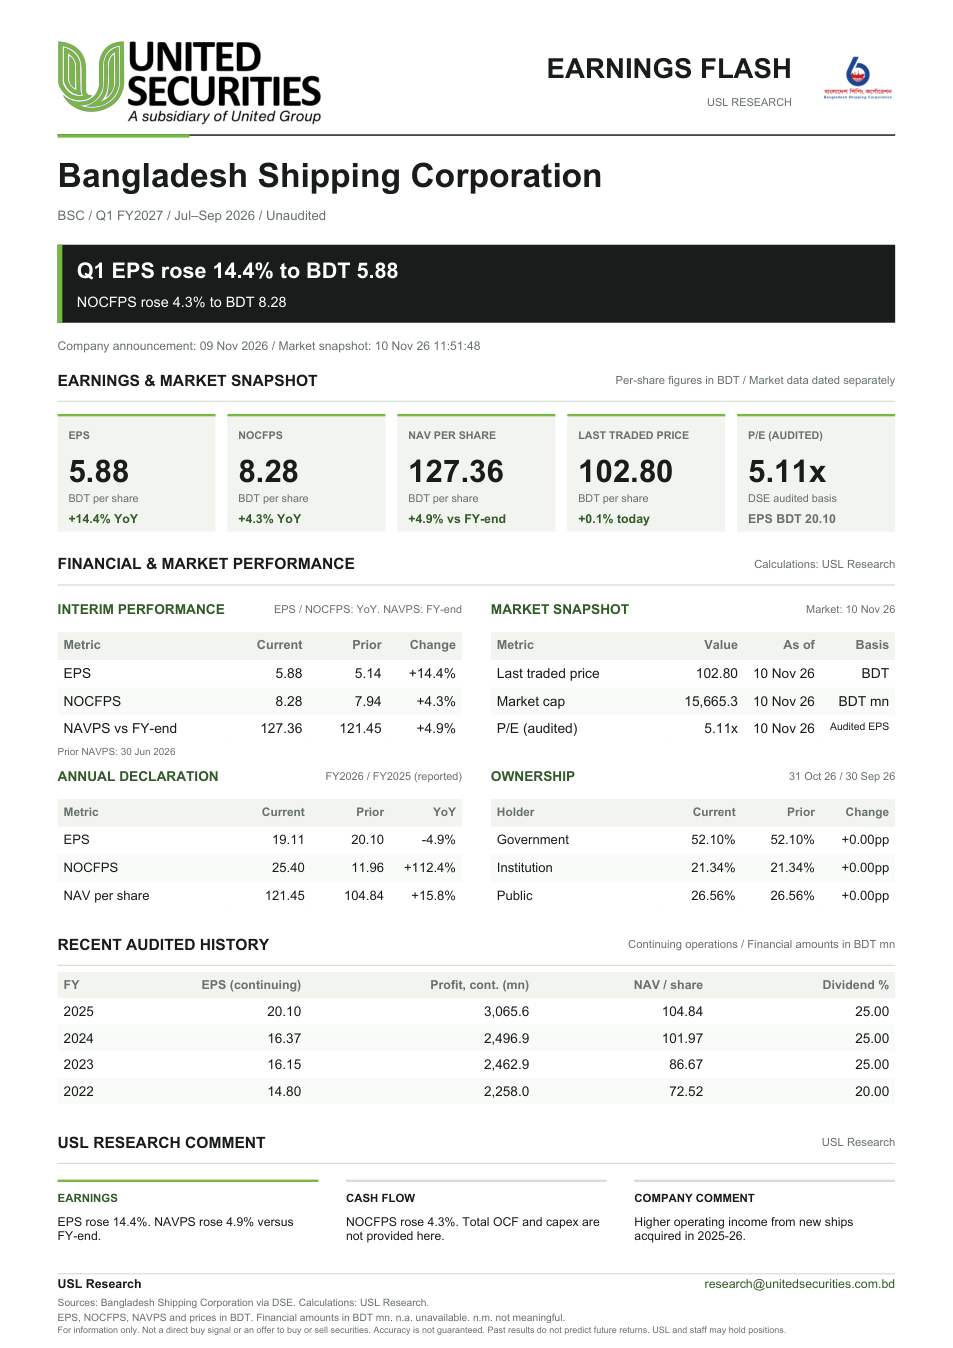
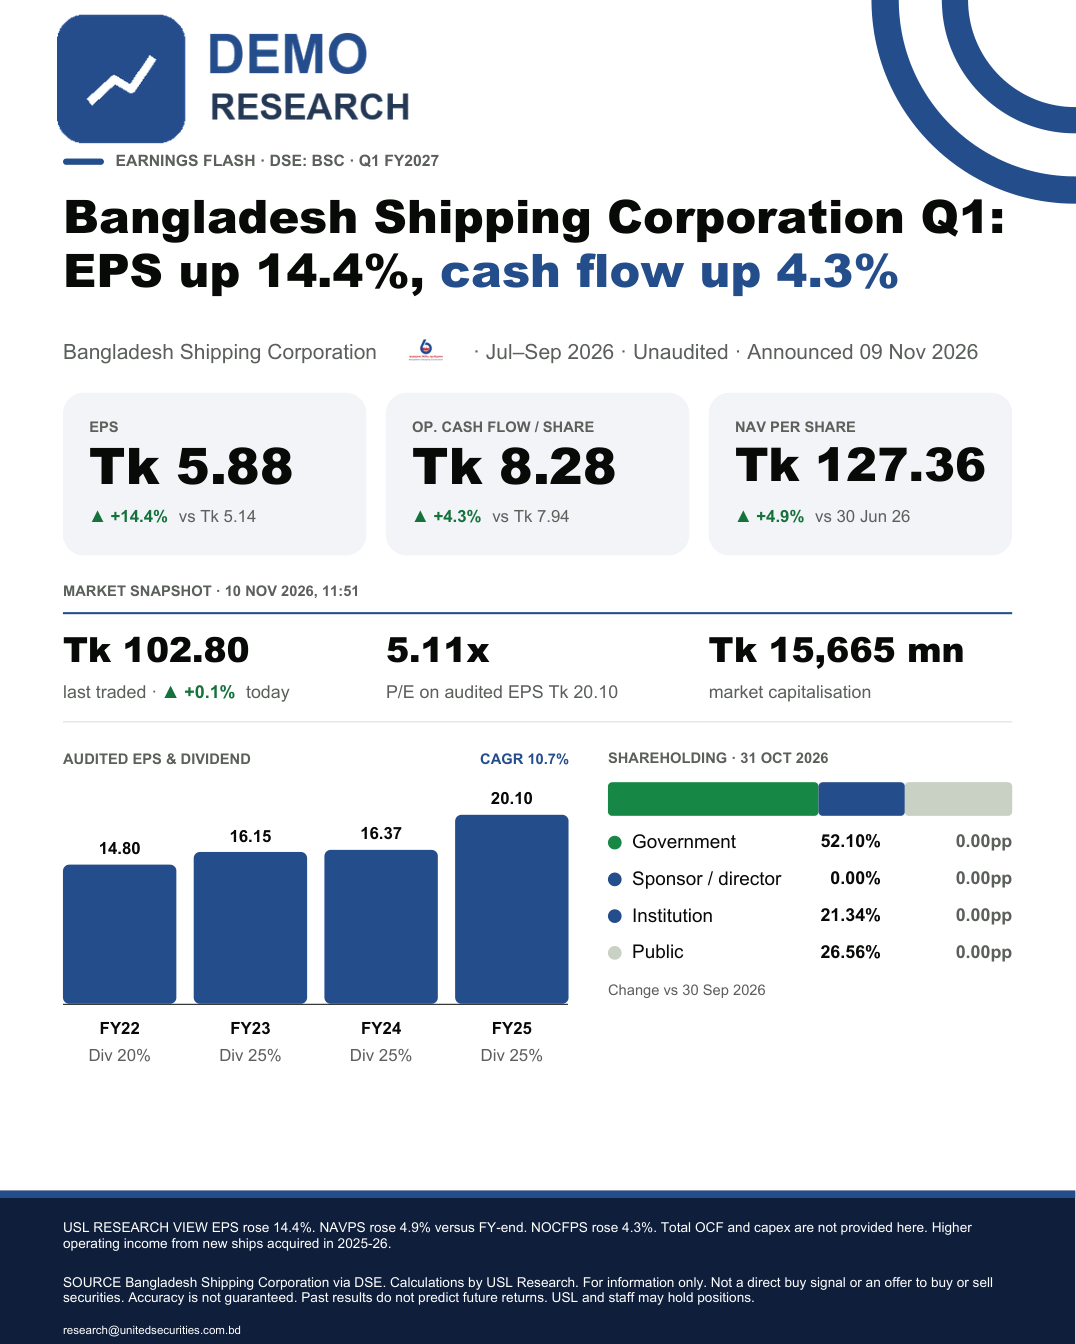
Refresh Earnings Flash portfolio and screenshots
Describe custom branding, report designs and export options. Show the app and its PDF output with a fictional demo logo and dated public BSC data.

diff --git a/index.html b/index.html
@@ -1,7 +1,7 @@
 <!doctype html>
 <html lang="en"><head><meta charset="utf-8"><meta name="viewport" content="width=device-width,initial-scale=1">
 <meta name="referrer" content="no-referrer"><meta http-equiv="Content-Security-Policy" content="default-src 'none'; img-src 'self'; style-src 'unsafe-inline'; base-uri 'none'; form-action 'none'">
-<meta name="description" content="A read-only case study of a Python and Streamlit financial-report automation project.">
+<meta name="description" content="A case study of a Windows app for branded Dhaka Stock Exchange earnings reports and editable PowerPoint and PDF exports.">
 <title>Earnings Flash Generator — Project Case Study</title>
 <style>body{margin:0;background:#f7f9f5;color:#182019;font:17px/1.65 system-ui,sans-serif}main{max-width:1020px;margin:auto;padding:64px 24px}h1{font-size:clamp(36px,6vw,62px);line-height:1.08;letter-spacing:-.04em;margin:12px 0 24px}h2{margin:52px 0 12px;font-size:28px}p{max-width:780px}.label{font-size:13px;letter-spacing:.12em;color:#315b28;text-transform:uppercase;font-weight:700}.stack{color:#52614f;font-size:15px}img{max-width:100%;height:auto;border:1px solid #dce5d5;background:white;margin:14px 0}figure{margin:24px 0}figcaption,footer{font-size:13px;color:#60705c}.report{max-width:740px}ul{padding-left:24px}footer{border-top:1px solid #dce5d5;margin-top:48px;padding-top:20px}</style>
 </head><body><main>
@@ -9,9 +9,9 @@
 <p>A local application that converts Dhaka Stock Exchange company disclosures into consistent, editable PowerPoint and searchable PDF earnings summaries.</p>
 <p class="stack">Python · Streamlit · Requests · XML / JSON · ReportLab · Pillow · C# · Git</p>
 <h2>The problem</h2><p>Preparing an earnings flash requires collecting public disclosures, checking comparable periods and transferring figures into a consistent report. Manual copying makes the process repetitive and can mix quarterly and cumulative results.</p>
-<h2>What I built</h2><ul><li>DSE ticker lookup and structured financial-disclosure parsing.</li><li>Explicit period and unit checks, with missing figures kept distinct from zero.</li><li>Automatic issuer-logo lookup with an optional saved replacement.</li><li>Rule-based earnings commentary drawn from matching public disclosures, with editable wording.</li><li>Editable PowerPoint and searchable PDF exports using one approved report layout.</li><li>A Windows launcher and a regression suite with 46 checks.</li></ul>
-<h2>Application preview</h2><figure><img src="app-preview.png" alt="Local earnings-report application showing ticker lookup and a report preview"><figcaption>Screenshot of the local application using public BSC disclosures. Market figures are dated demonstration data.</figcaption></figure>
-<h2>Report preview</h2><figure class="report"><img src="earnings-flash.png" alt="One-page earnings report with financial comparisons and research commentary"><figcaption>Example output layout. The full app produces editable PowerPoint and searchable PDF files.</figcaption></figure>
+<h2>What I built</h2><ul><li>DSE ticker lookup and structured financial-disclosure parsing.</li><li>Explicit period and unit checks, with missing figures kept distinct from zero.</li><li>Automatic issuer-logo lookup and optional publisher branding that derives report colors from an uploaded logo.</li><li>Rule-based earnings commentary drawn from matching public disclosures, with editable wording.</li><li>Three report designs with editable PowerPoint and searchable PDF exports to a user-selected folder.</li><li>A Windows launcher and regression tests for reporting periods and export behavior.</li></ul>
+<h2>Application preview</h2><figure><img src="app-preview.png" alt="Local earnings-report application showing ticker lookup and a report preview"><figcaption>The app previews the palette from a fictional demo logo using a public BSC disclosure. Market figures are dated.</figcaption></figure>
+<h2>Report preview</h2><figure class="report"><img src="earnings-flash.png" alt="One-page earnings report with financial comparisons and research commentary"><figcaption>Reference design rendered from the generated PDF using the same demo logo and palette.</figcaption></figure>
 <h2>Design choices</h2><p>The application runs locally without an AI service or API key. Period comparisons use fixed rules rather than estimating missing financial totals. Downloads and exports remain on the user's machine.</p>
 <h2>Source and access</h2><p>The complete application repository is private. Source and implementation details can be shared with reviewers on request. This page is a read-only case study: it has no live app, uploads, backend or financial-data connection.</p>
 <footer>For information only. This case study is not a direct buy signal or an offer to buy or sell securities. Financial screenshots use public, dated disclosures. Logos identify their respective owners.</footer>

diff --git a/README.md b/README.md
@@ -1,13 +1,11 @@
-# Earnings Flash Generator — Portfolio Showcase
+# Earnings Flash Generator
 
-A static case study for a CV or project portfolio. Open `index.html` in a browser or serve this folder through a static host.
+A portfolio case study of a Windows app that turns Dhaka Stock Exchange disclosures into one-page earnings reports. Open [the case study](index.html) in a browser to see the workflow and report.
 
-![Application preview](app-preview.png)
+The app checks reporting periods before comparing figures, supports three report designs, and exports editable PowerPoint and searchable PDF files to a folder selected by the user. An optional logo upload applies a matching palette to both the report preview and exports.
 
-![Earnings report preview](earnings-flash.png)
+![Earnings Flash app with the report branding controls open and a blue report preview](app-preview.png)
 
-This folder contains only the case-study page and PNG previews. It does not include the application source, executables, templates, financial export files, saved data, credentials or local filesystem paths. The full app repository stays private.
+![BSC earnings report using a fictional blue Demo Research logo](earnings-flash.png)
 
-The project automates DSE-disclosure parsing, reporting-period checks, issuer-logo retrieval and PowerPoint/PDF reporting using Python, Streamlit and a C# Windows launcher. It includes 46 regression checks. Source is available to reviewers on request.
-
-The previews use public company disclosures and dated market figures. They demonstrate the software rather than an investment recommendation.
+The screenshots use a public BSC disclosure and dated market figures. The logo is fictional. Application source and implementation assets are kept in the private repository.
